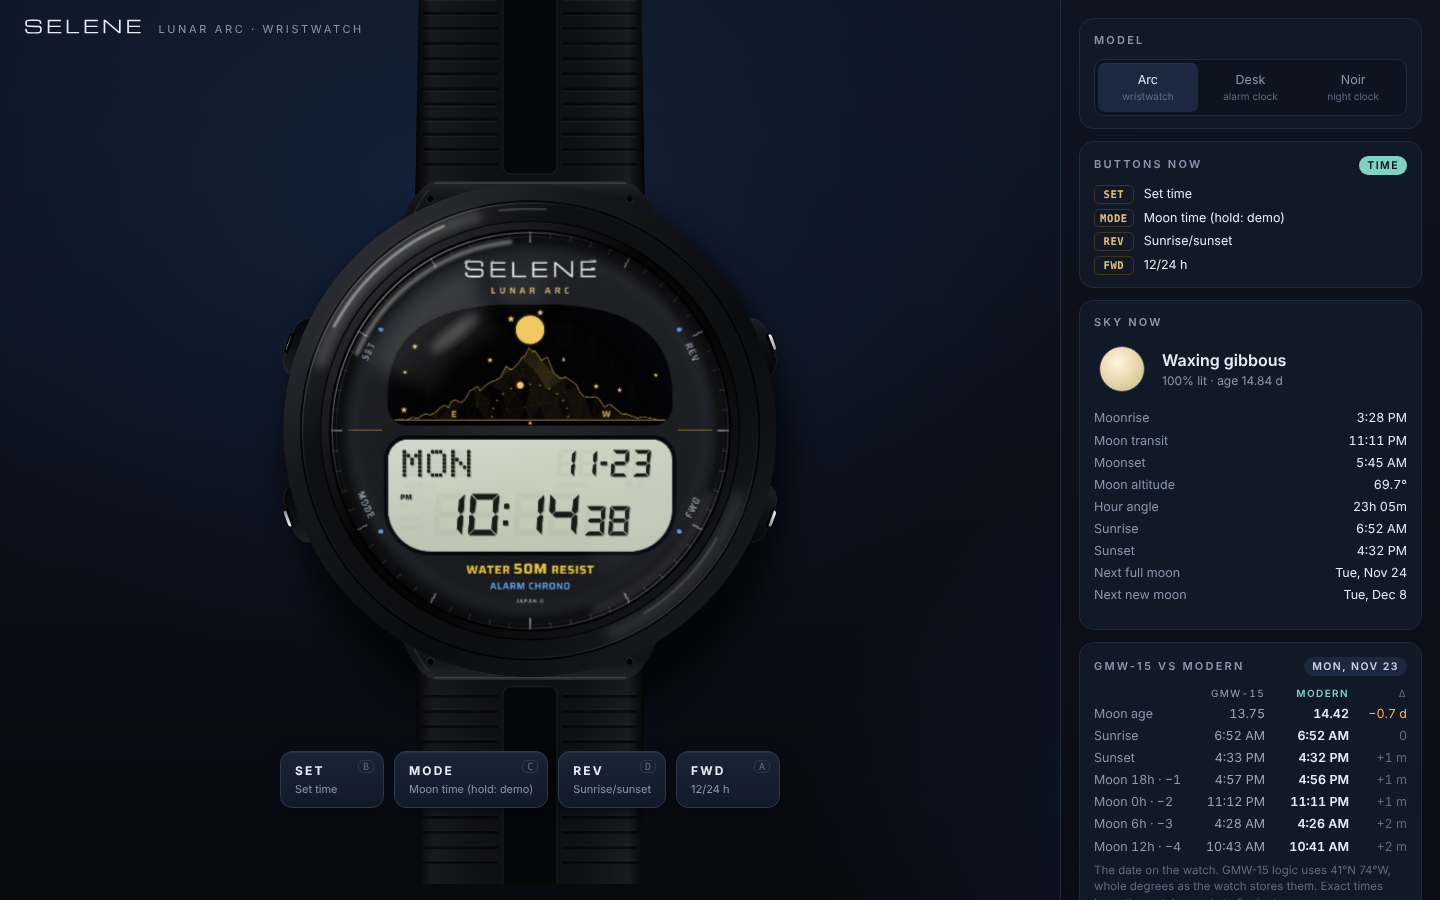
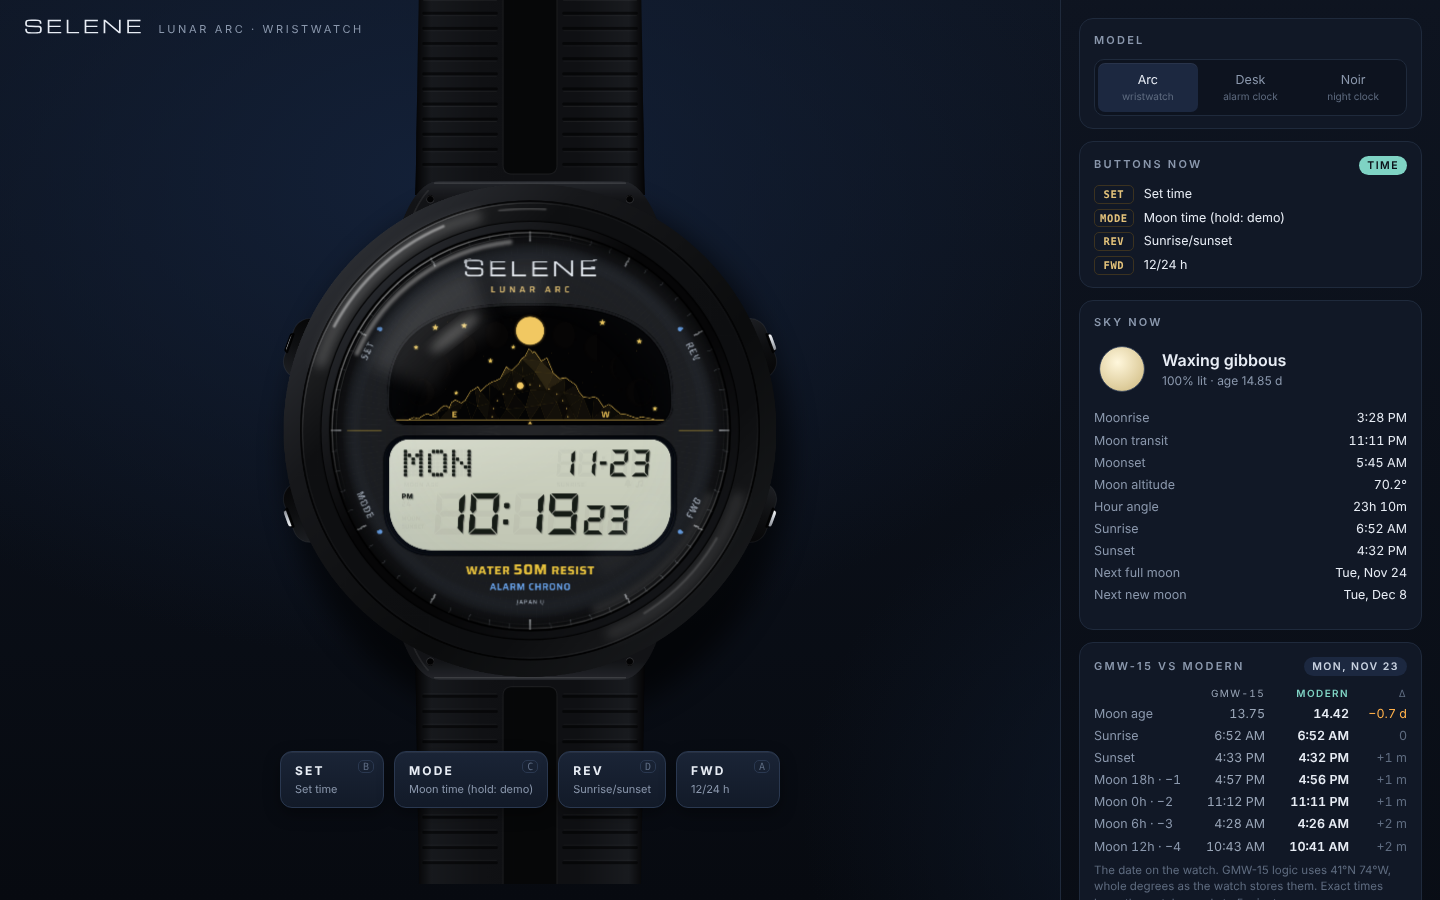
Web watch: stronger tilt, dial floats above the displays
- pointer tilt up from 8/6.5 to 11/9 degrees
- faces can list their display openings (Arc does); the simulator then draws
  the dial twice: in full at the back (-36) under the live segments (-35),
  and as the dial face with the openings cut out a little higher (-14). The
  displays sit recessed under the dial and shift against their openings as
  the watch tilts, all still under the crystal (+6). Faces without
  openings keep the single dial layer.

Claude-Session: https://claude.ai/code/session_013ungtZWuFc7hHZrkieKASF

diff --git a/dist/index.html b/dist/index.html
@@ -33,8 +33,11 @@ header.top .tag{font-size:11px;letter-spacing:.24em;color:var(--mute);text-trans
 /* stacked layers: body in flow, the rest laid exactly over it at their own depth */
 .device .L{position:absolute;left:0;top:0;height:100%;pointer-events:none;will-change:transform;backface-visibility:hidden}
 .device .L.body{position:relative;height:auto;pointer-events:auto}
-.device .dial{transform:translateZ(-22px)}
-.device .segs{transform:translateZ(-21px)}
+.device .dialwin{transform:translateZ(-36px)}
+.device .segs{transform:translateZ(-35px)}
+.device .dial{transform:translateZ(-14px)}
+.device:not(:has(.dialwin)) .dial{transform:translateZ(-22px)}
+.device:not(:has(.dialwin)) .segs{transform:translateZ(-21px)}
 .device .glass{transform:translateZ(6px)}
 .device .spec{transform:translateZ(40px) translate(calc(var(--tx,0)*-2.4%),calc(var(--ty,0)*-2.4%));transition:transform .5s cubic-bezier(.2,.7,.2,1)}
 .device:not(.dome) .spec,.device:not(.dome) .domeonly{display:none}
@@ -1134,7 +1137,9 @@ ${btn('SET', 214, true, -1)}${btn('MODE', 146, false, 1)}${btn('REV', -34, true,
       lcdOn: '#161b18', lcdGhost: opt.classic ? 'rgba(22,27,24,.062)' : 'rgba(22,27,24,.036)', mgOn: '#f1c862', mgGhost: 'rgba(241,200,98,.014)',
       stOn: '#ecc75e', stGhost: 'rgba(236,199,94,.02)',
       shadow: 'rgba(28,34,30,.32)', glow: 'rgba(255,214,120,.55)', negative: false,
-      el: '#7fe7d2' }, lcdBox, kind: 'watch' };
+      el: '#7fe7d2' }, lcdBox, kind: 'watch',
+      // the two display openings, for the simulator's depth layers (the dial floats a little above what's behind them)
+      windows: [domeD, lcdD(4)] };
   }
 
   // ================================================================ FACE: DESK (alarm clock dial)
@@ -1948,12 +1953,17 @@ ${extraCss}
     const tf = `transform="translate(${cx - Rf} ${cy - Rf}) scale(${s})"`;
     const clip = (id) => `<clipPath id="${id}"><circle cx="${cx}" cy="${cy}" r="${Rf}"/></clipPath>`;
     const print = face.svg.replace(/data-s="/g, 'data-g="');
+    // with display openings, the dial is drawn twice: what shows through the openings (deep) and the dial face with
+    // the openings cut out (a little higher), so the displays sit recessed under the dial and shift as it tilts
+    const win = face.windows ? `<clipPath id="winOut"><path clip-rule="evenodd" d="M-200 -200H1200V1200H-200Z${face.windows.join('')}"/></clipPath>` : '';
     const by = { lcd: '', mg: '', st: '' };
     for (const q of face.segs) by[q.cls] += `<path class="s" data-s="${q.id}" d="${q.d}"/>`;
-    return `${svgOpen('dial', vb, 'aria-hidden="true"')}<defs>${clip('dialClip')}
-<filter id="dome" filterUnits="userSpaceOnUse" x="0" y="0" width="1000" height="1000" color-interpolation-filters="sRGB"><feImage href="${lensMap(L.r0)}" x="0" y="0" width="1000" height="1000" preserveAspectRatio="none" result="m"/><feDisplacementMap in="SourceGraphic" in2="m" scale="${2 * L.k}" xChannelSelector="R" yChannelSelector="G"/></filter></defs>
+    return `${svgOpen(face.windows ? 'dialwin' : 'dial', vb, 'aria-hidden="true"')}<defs>${clip('dialClip')}
+${win}<filter id="dome" filterUnits="userSpaceOnUse" x="0" y="0" width="1000" height="1000" color-interpolation-filters="sRGB"><feImage href="${lensMap(L.r0)}" x="0" y="0" width="1000" height="1000" preserveAspectRatio="none" result="m"/><feDisplacementMap in="SourceGraphic" in2="m" scale="${2 * L.k}" xChannelSelector="R" yChannelSelector="G"/></filter></defs>
 <circle cx="${cx}" cy="${cy}" r="${Rf + 30}" fill="#020203"/>
 <g clip-path="url(#dialClip)"><g ${tf}><g class="print">${print}</g></g></g></svg>
+${win ? `${svgOpen('dial', vb, 'aria-hidden="true"')}<defs>${clip('faceClip')}</defs>
+<g clip-path="url(#faceClip)"><g ${tf}><g class="print" clip-path="url(#winOut)">${print}</g></g></g></svg>` : ''}
 ${svgOpen('segs', vb, 'aria-hidden="true"')}<defs>${clip('segClip')}
 <filter id="lcdShadow" x="-5%" y="-5%" width="110%" height="115%"><feDropShadow dx="2.2" dy="2.8" stdDeviation="1.3" flood-color="${pal.shadow}" flood-opacity="1"/></filter>
 <filter id="mgGlow" x="-20%" y="-20%" width="140%" height="140%"><feGaussianBlur in="SourceGraphic" stdDeviation="4.5" result="b"/><feColorMatrix in="b" type="matrix" values="1 0 0 0 0  0 .9 0 0 0  0 0 .6 0 0  0 0 0 .55 0" result="g"/><feMerge><feMergeNode in="g"/><feMergeNode in="SourceGraphic"/></feMerge></filter>
@@ -2177,7 +2187,7 @@ ${specLayer(vb, cx, cy, Ra, noir ? 0.55 : 1.15)}`;
   const still = window.matchMedia('(prefers-reduced-motion:reduce)').matches;
   function tilt(x, y) { // x, y in -1..1
     x = Math.max(-1, Math.min(1, x)); y = Math.max(-1, Math.min(1, y));
-    device.style.transform = `rotateY(${(x * 8).toFixed(2)}deg) rotateX(${(-y * 6.5).toFixed(2)}deg)`;
+    device.style.transform = `rotateY(${(x * 11).toFixed(2)}deg) rotateX(${(-y * 9).toFixed(2)}deg)`;
     device.style.setProperty('--tx', x.toFixed(3)); device.style.setProperty('--ty', y.toFixed(3));
   }
   if (!still && window.matchMedia('(hover:hover) and (pointer:fine)').matches) {

diff --git a/web/app.js b/web/app.js
@@ -105,12 +105,17 @@
     const tf = `transform="translate(${cx - Rf} ${cy - Rf}) scale(${s})"`;
     const clip = (id) => `<clipPath id="${id}"><circle cx="${cx}" cy="${cy}" r="${Rf}"/></clipPath>`;
     const print = face.svg.replace(/data-s="/g, 'data-g="');
+    // with display openings, the dial is drawn twice: what shows through the openings (deep) and the dial face with
+    // the openings cut out (a little higher), so the displays sit recessed under the dial and shift as it tilts
+    const win = face.windows ? `<clipPath id="winOut"><path clip-rule="evenodd" d="M-200 -200H1200V1200H-200Z${face.windows.join('')}"/></clipPath>` : '';
     const by = { lcd: '', mg: '', st: '' };
     for (const q of face.segs) by[q.cls] += `<path class="s" data-s="${q.id}" d="${q.d}"/>`;
-    return `${svgOpen('dial', vb, 'aria-hidden="true"')}<defs>${clip('dialClip')}
-<filter id="dome" filterUnits="userSpaceOnUse" x="0" y="0" width="1000" height="1000" color-interpolation-filters="sRGB"><feImage href="${lensMap(L.r0)}" x="0" y="0" width="1000" height="1000" preserveAspectRatio="none" result="m"/><feDisplacementMap in="SourceGraphic" in2="m" scale="${2 * L.k}" xChannelSelector="R" yChannelSelector="G"/></filter></defs>
+    return `${svgOpen(face.windows ? 'dialwin' : 'dial', vb, 'aria-hidden="true"')}<defs>${clip('dialClip')}
+${win}<filter id="dome" filterUnits="userSpaceOnUse" x="0" y="0" width="1000" height="1000" color-interpolation-filters="sRGB"><feImage href="${lensMap(L.r0)}" x="0" y="0" width="1000" height="1000" preserveAspectRatio="none" result="m"/><feDisplacementMap in="SourceGraphic" in2="m" scale="${2 * L.k}" xChannelSelector="R" yChannelSelector="G"/></filter></defs>
 <circle cx="${cx}" cy="${cy}" r="${Rf + 30}" fill="#020203"/>
 <g clip-path="url(#dialClip)"><g ${tf}><g class="print">${print}</g></g></g></svg>
+${win ? `${svgOpen('dial', vb, 'aria-hidden="true"')}<defs>${clip('faceClip')}</defs>
+<g clip-path="url(#faceClip)"><g ${tf}><g class="print" clip-path="url(#winOut)">${print}</g></g></g></svg>` : ''}
 ${svgOpen('segs', vb, 'aria-hidden="true"')}<defs>${clip('segClip')}
 <filter id="lcdShadow" x="-5%" y="-5%" width="110%" height="115%"><feDropShadow dx="2.2" dy="2.8" stdDeviation="1.3" flood-color="${pal.shadow}" flood-opacity="1"/></filter>
 <filter id="mgGlow" x="-20%" y="-20%" width="140%" height="140%"><feGaussianBlur in="SourceGraphic" stdDeviation="4.5" result="b"/><feColorMatrix in="b" type="matrix" values="1 0 0 0 0  0 .9 0 0 0  0 0 .6 0 0  0 0 0 .55 0" result="g"/><feMerge><feMergeNode in="g"/><feMergeNode in="SourceGraphic"/></feMerge></filter>
@@ -334,7 +339,7 @@ ${specLayer(vb, cx, cy, Ra, noir ? 0.55 : 1.15)}`;
   const still = window.matchMedia('(prefers-reduced-motion:reduce)').matches;
   function tilt(x, y) { // x, y in -1..1
     x = Math.max(-1, Math.min(1, x)); y = Math.max(-1, Math.min(1, y));
-    device.style.transform = `rotateY(${(x * 8).toFixed(2)}deg) rotateX(${(-y * 6.5).toFixed(2)}deg)`;
+    device.style.transform = `rotateY(${(x * 11).toFixed(2)}deg) rotateX(${(-y * 9).toFixed(2)}deg)`;
     device.style.setProperty('--tx', x.toFixed(3)); device.style.setProperty('--ty', y.toFixed(3));
   }
   if (!still && window.matchMedia('(hover:hover) and (pointer:fine)').matches) {

diff --git a/web/app.css b/web/app.css
@@ -24,8 +24,11 @@ header.top .tag{font-size:11px;letter-spacing:.24em;color:var(--mute);text-trans
 /* stacked layers: body in flow, the rest laid exactly over it at their own depth */
 .device .L{position:absolute;left:0;top:0;height:100%;pointer-events:none;will-change:transform;backface-visibility:hidden}
 .device .L.body{position:relative;height:auto;pointer-events:auto}
-.device .dial{transform:translateZ(-22px)}
-.device .segs{transform:translateZ(-21px)}
+.device .dialwin{transform:translateZ(-36px)}
+.device .segs{transform:translateZ(-35px)}
+.device .dial{transform:translateZ(-14px)}
+.device:not(:has(.dialwin)) .dial{transform:translateZ(-22px)}
+.device:not(:has(.dialwin)) .segs{transform:translateZ(-21px)}
 .device .glass{transform:translateZ(6px)}
 .device .spec{transform:translateZ(40px) translate(calc(var(--tx,0)*-2.4%),calc(var(--ty,0)*-2.4%));transition:transform .5s cubic-bezier(.2,.7,.2,1)}
 .device:not(.dome) .spec,.device:not(.dome) .domeonly{display:none}

diff --git a/shared/faces.js b/shared/faces.js
@@ -534,7 +534,9 @@ ${btn('SET', 214, true, -1)}${btn('MODE', 146, false, 1)}${btn('REV', -34, true,
       lcdOn: '#161b18', lcdGhost: opt.classic ? 'rgba(22,27,24,.062)' : 'rgba(22,27,24,.036)', mgOn: '#f1c862', mgGhost: 'rgba(241,200,98,.014)',
       stOn: '#ecc75e', stGhost: 'rgba(236,199,94,.02)',
       shadow: 'rgba(28,34,30,.32)', glow: 'rgba(255,214,120,.55)', negative: false,
-      el: '#7fe7d2' }, lcdBox, kind: 'watch' };
+      el: '#7fe7d2' }, lcdBox, kind: 'watch',
+      // the two display openings, for the simulator's depth layers (the dial floats a little above what's behind them)
+      windows: [domeD, lcdD(4)] };
   }
 
   // ================================================================ FACE: DESK (alarm clock dial)
